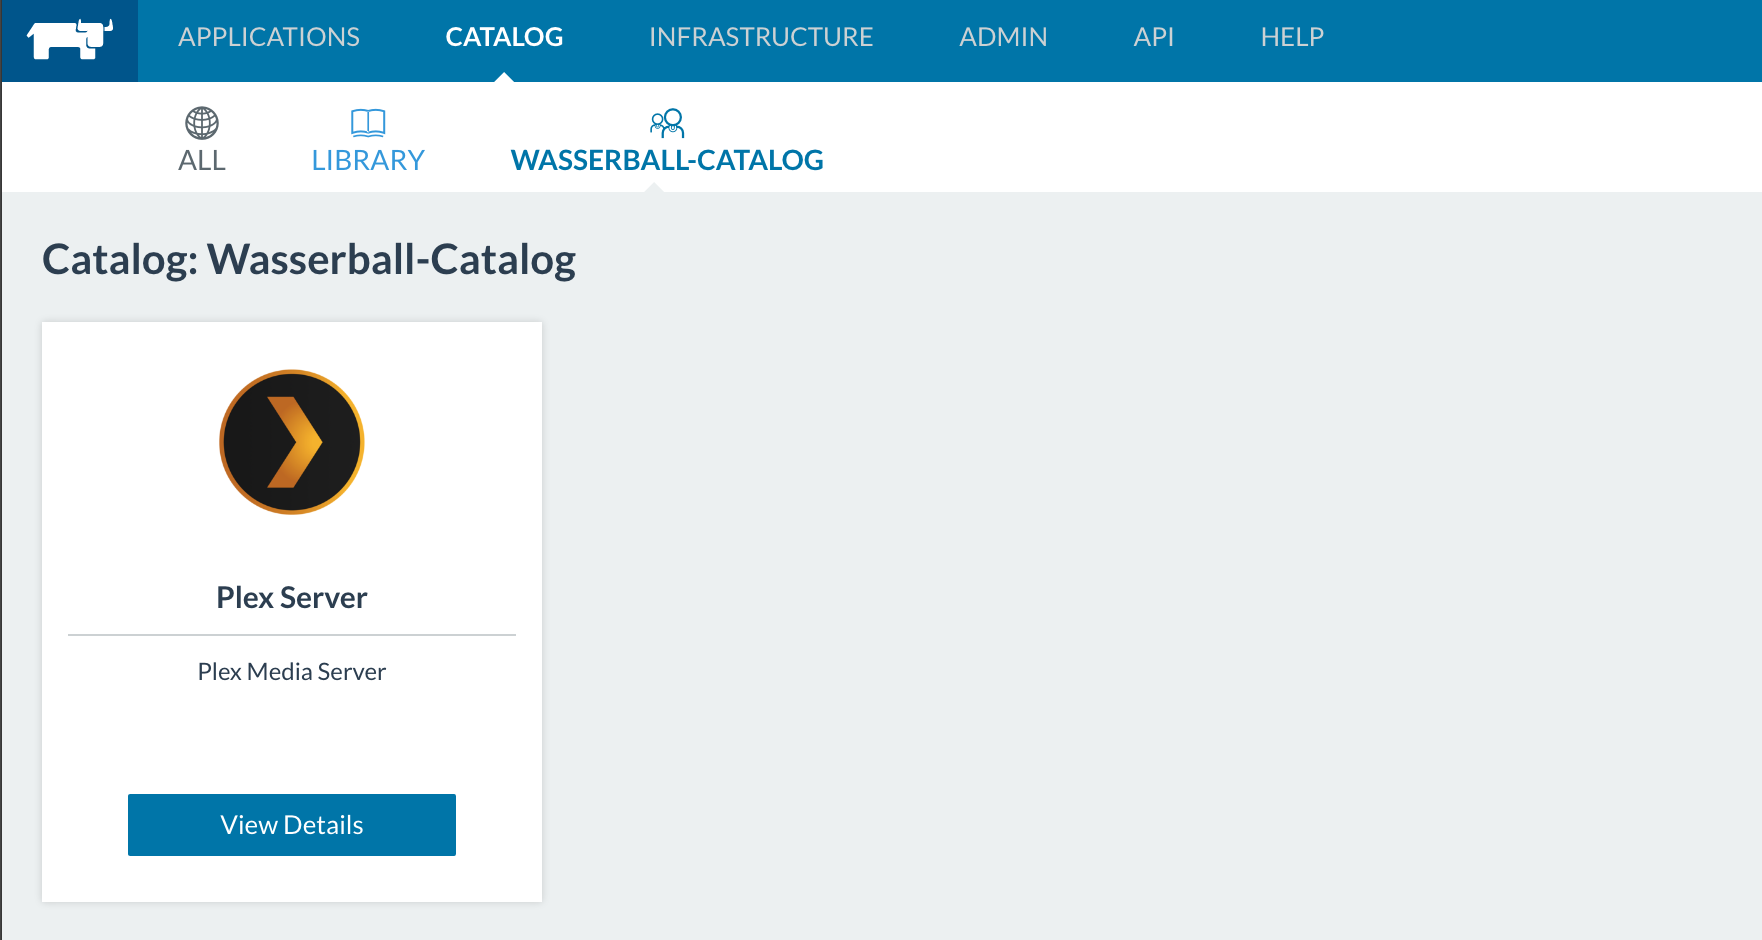
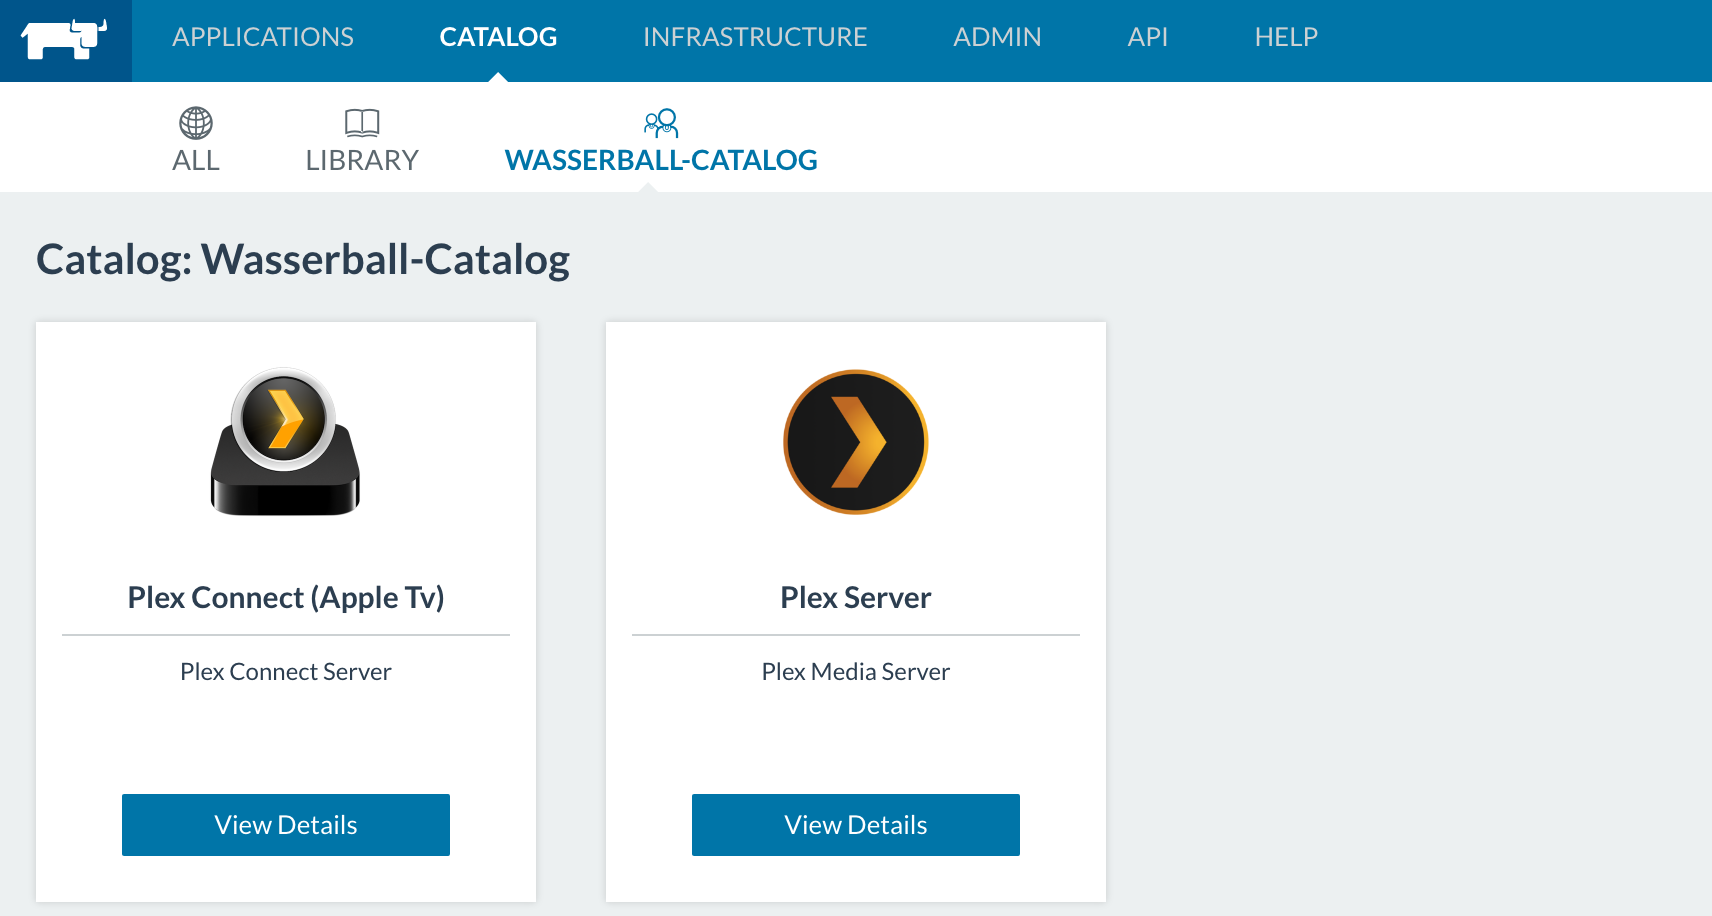
add PlexConnect Readme

diff --git a/README.md b/README.md
@@ -35,7 +35,18 @@ click on View Details, Choose a Version, modify some settings (Name, Port) and h
 ## Open Plex
 Open a Web-Browser and got to `<ip of your server>:32400/web/index.html`.
 
-## Watch :-)
+```
+watch :-)
+```
+
+# PlexConnect
+
+## Install
+
+click on View Details, Choose a Version and hit Launch.
+
+## Config
+Doku @ [wasserball/plexconnect](https://github.com/wasserball/plexconnect)
 
 
 
